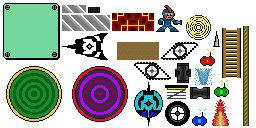
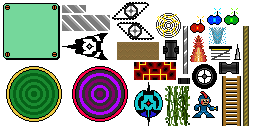
updated pole sprites and imported along with vines into level assets

Changed region(s): [[0.4375, 0.0, 0.9688, 1.0], [0.3438, 0.0312, 0.4062, 0.125]]

diff --git a/core/src/com/udacity/gamedev/gigagal/entities/Vines.java b/core/src/com/udacity/gamedev/gigagal/entities/Vines.java
@@ -7,7 +7,7 @@ import com.udacity.gamedev.gigagal.util.Assets;
 import com.udacity.gamedev.gigagal.util.Constants;
 import com.udacity.gamedev.gigagal.util.Utils;
 
-public class Vines {
+public class Vines implements Ground, Climbable{
 
     // fields
     private Vector2 position;
